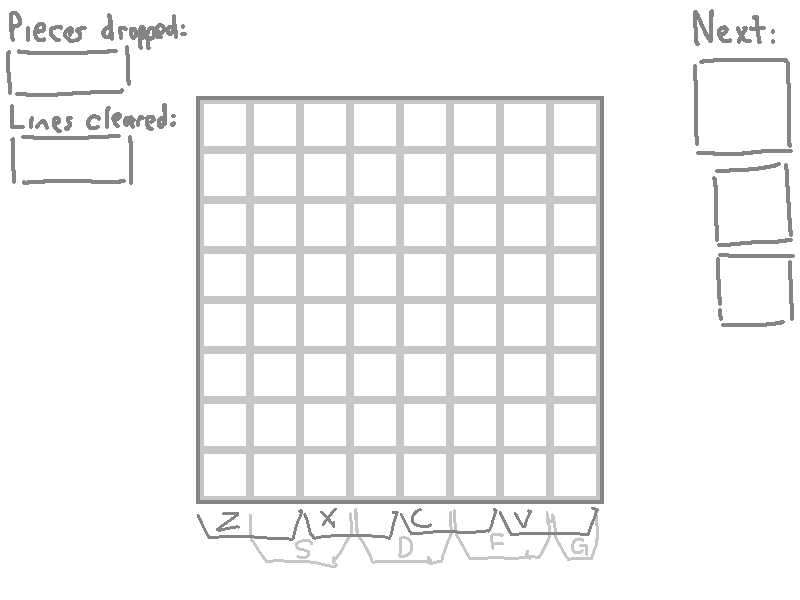
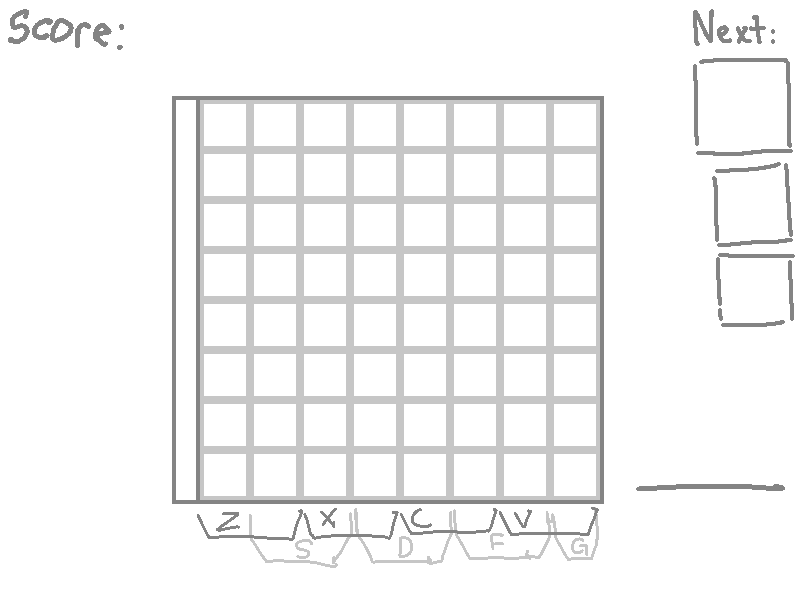
added a timer, and a three strikes to gameover function

Changed region(s): [[0.0, 0.0, 0.25, 0.84], [0.7812, 0.78, 1.0, 0.84], [0.0312, 0.3, 0.1562, 0.33]]

diff --git a/blockgame/main.cpp b/blockgame/main.cpp
@@ -4,7 +4,8 @@
 #include <algorithm>
 #include <random>
 #include"piece.h"
-
+#include<iomanip>
+#include<sstream>
 #include <iostream>
 using namespace std;
 
@@ -94,8 +95,11 @@ public:
 	int getHeight(int); //find heighest occupied square in V column 'int', by index for that square
 	int getPiecesDropped();
 	int getLinesCleared();
+	int getLevelValue(); // Level value determines what 'level' you're in and how much time you have to drop
 	piece lookPieceQ(int); //check what's the piece 'int' pieces after the current piece
 	bool getBoardState(int, int); //check if the square at int x, int y is full or not, used for drawing the gameboard
+	sf::Time getTimeLimit();
+	string getNextLevelValue();
 };
 
 gameBoard::gameBoard() {
@@ -124,6 +128,10 @@ int gameBoard::getPiecesDropped() {
 
 int gameBoard::getLinesCleared() {
 	return linesCleared;
+}
+
+int gameBoard::getLevelValue() {
+	return (piecesDropped + linesCleared);
 }
 
 piece gameBoard::lookPieceQ(int i) {
@@ -317,17 +325,41 @@ bool gameBoard::dropPiece(int dropZone) {
 	return dropSuccessful;
 }
 
+sf::Time gameBoard::getTimeLimit() {
+	int levelValue = getLevelValue();
+	if (levelValue < 50) return sf::seconds(10);
+	else if (levelValue < 100) return sf::seconds(9);
+	else if (levelValue < 200) return sf::seconds(8);
+	else if (levelValue < 300) return sf::seconds(7);
+	else if (levelValue < 400) return sf::seconds(6);
+	else if (levelValue < 500) return sf::seconds(5);
+	else if (levelValue < 999) return sf::seconds(3);
+	else return sf::seconds(1);
+}
+
+string gameBoard::getNextLevelValue() {
+	int levelValue = getLevelValue();
+	if (levelValue < 50) return "50";
+	else if (levelValue < 100) return "100";
+	else if (levelValue < 200) return "200";
+	else if (levelValue < 300) return "300";
+	else if (levelValue < 400) return "400";
+	else if (levelValue < 500) return "500";
+	else if (levelValue < 999) return "999";
+	else return "MAX";
+}
+
 string checkPiece(piece checkMe) {
 	switch (checkMe) {
-		case pieceDot: return ".";
-		case pieceI: return "I";
-		case pieceLine: return "_";
-		case pieceO: return "O";
-		case pieceR: return "r";
-		case piece7: return "7";
-		case pieceL: return "L";
-		case pieceJ: return "J";
-		default: return "";
+	case pieceDot: return ".";
+	case pieceI: return "I";
+	case pieceLine: return "_";
+	case pieceO: return "O";
+	case pieceR: return "r";
+	case piece7: return "7";
+	case pieceL: return "L";
+	case pieceJ: return "J";
+	default: return "";
 	}
 }
 
@@ -340,20 +372,30 @@ int main()
 	if (!font.loadFromFile("resources/sansation.ttf")) {
 		window.close();
 	}
-	sf::Text droppedPiecesText;
-	droppedPiecesText.setFont(font);
-	droppedPiecesText.setCharacterSize(40);
-	droppedPiecesText.setPosition(50, 50);
-	droppedPiecesText.setString("0");
-	droppedPiecesText.setFillColor(sf::Color::Black);
 
-	sf::Text linesClearedText;
-	linesClearedText.setFont(font);
-	linesClearedText.setCharacterSize(40);
-	linesClearedText.setPosition(50, 135);
-	linesClearedText.setString("1");
-	linesClearedText.setFillColor(sf::Color::Black);
+	// Stats
+	sf::Text scoreText;
+	scoreText.setFont(font);
+	scoreText.setCharacterSize(50);
+	scoreText.setPosition(50, 50);
+	scoreText.setString("0");
+	scoreText.setFillColor(sf::Color::Black);
 
+	sf::Text levelValueText;
+	levelValueText.setFont(font);
+	levelValueText.setCharacterSize(70);
+	levelValueText.setPosition(650, 400);
+	levelValueText.setString("1");
+	levelValueText.setFillColor(sf::Color::Black);
+
+	sf::Text nextLevelValueText;
+	nextLevelValueText.setFont(font);
+	nextLevelValueText.setCharacterSize(70);
+	nextLevelValueText.setPosition(650, 480);
+	nextLevelValueText.setString("666");
+	nextLevelValueText.setFillColor(sf::Color::Black);
+
+	// Next queue
 	sf::Text nextPiece1;
 	nextPiece1.setFont(font);
 	nextPiece1.setCharacterSize(100);
@@ -374,6 +416,35 @@ int main()
 	nextPiece3.setPosition(740, 250);
 	nextPiece3.setString("J");
 	nextPiece3.setFillColor(sf::Color::Black);
+
+	// Timers
+	sf::Text timeElapsedText;
+	timeElapsedText.setFont(font);
+	timeElapsedText.setCharacterSize(30);
+	timeElapsedText.setPosition(20, 560);
+	timeElapsedText.setString("temp");
+	timeElapsedText.setFillColor(sf::Color::Black);
+
+	sf::Text timeLeftText;
+	timeLeftText.setFont(font);
+	timeLeftText.setCharacterSize(60);
+	timeLeftText.setPosition(20, 490);
+	timeLeftText.setString("temp");
+	timeLeftText.setFillColor(sf::Color::Red);
+
+	// Strikes
+	int strikes = 0;
+	sf::Text strikesText;
+	strikesText.setFont(font);
+	strikesText.setCharacterSize(60);
+	strikesText.setPosition(20, 430);
+	strikesText.setString("");
+	strikesText.setFillColor(sf::Color::Red);
+
+	sf::Time timeElapsed = sf::seconds(0); // total time elapsed in the game
+	sf::Time timeLeft = sf::seconds(10); // time left before player gets a strike
+	sf::Time animationTimer = sf::seconds(0); // used to advance animation states, reset it and animate every .1s
+	sf::Clock clock;
 
 	sf::Texture backGround;
 	sf::Texture block;
@@ -403,6 +474,12 @@ int main()
 		}
 	}
 
+	static const int timerBarXPos = 176;
+	static const int timerBarYPos = 100;
+	sf::RectangleShape timerBar(sf::Vector2f(20.f, 400.f));
+	timerBar.setFillColor(sf::Color(0,0,0));
+	timerBar.setPosition(timerBarXPos, timerBarYPos);
+
 	bool isPlaying = true;
 	gameBoard game;
 	
@@ -420,27 +497,35 @@ int main()
 						switch (event.key.code) {
 							case sf::Keyboard::Z:
 								isPlaying = game.dropPiece(0);
+								timeLeft = game.getTimeLimit();
 								break;
 							case sf::Keyboard::S:
 								isPlaying = game.dropPiece(1);
+								timeLeft = game.getTimeLimit();
 								break;
 							case sf::Keyboard::X:
 								isPlaying = game.dropPiece(2);
+								timeLeft = game.getTimeLimit();
 								break;
 							case sf::Keyboard::D:
 								isPlaying = game.dropPiece(3);
+								timeLeft = game.getTimeLimit();
 								break;
 							case sf::Keyboard::C:
 								isPlaying = game.dropPiece(4);
+								timeLeft = game.getTimeLimit();
 								break;
 							case sf::Keyboard::F:
 								isPlaying = game.dropPiece(5);
+								timeLeft = game.getTimeLimit();
 								break;
 							case sf::Keyboard::V:
 								isPlaying = game.dropPiece(6);
+								timeLeft = game.getTimeLimit();
 								break;
 							case sf::Keyboard::G:
 								isPlaying = game.dropPiece(7);
+								timeLeft = game.getTimeLimit();
 								break;
 
 						}
@@ -450,22 +535,68 @@ int main()
 			}
 			window.clear();
 			window.draw(bgSprite);
-			droppedPiecesText.setString(to_string(game.getPiecesDropped()));
-			window.draw(droppedPiecesText);
-			linesClearedText.setString(to_string(game.getLinesCleared()));
-			window.draw(linesClearedText);
+
+			// get and draw stats
+			scoreText.setString(to_string(game.getPiecesDropped()));
+			window.draw(scoreText);
+			levelValueText.setString(to_string(game.getLevelValue()));
+			window.draw(levelValueText);
+			nextLevelValueText.setString(game.getNextLevelValue());
+			window.draw(nextLevelValueText);
+
+			// get and draw next pieces
 			nextPiece1.setString(checkPiece(game.lookPieceQ(0)));
 			window.draw(nextPiece1);
 			nextPiece2.setString(checkPiece(game.lookPieceQ(1)));
 			window.draw(nextPiece2);
 			nextPiece3.setString(checkPiece(game.lookPieceQ(2)));
 			window.draw(nextPiece3);
+
+			// get and draw timers
+			sf::Time delta = clock.restart();
+			timeElapsed += delta; // time elapsed
+			stringstream tempTime;
+			tempTime << fixed << setprecision(1) << timeElapsed.asSeconds();
+			timeElapsedText.setString(tempTime.str());
+			window.draw(timeElapsedText);
+			timeLeft -= delta; // time left
+			if (timeLeft.asSeconds() < 0) { // first check for strike
+				strikes++;
+				if (strikes > 3) {
+					isPlaying = false;
+				}
+				timeLeft = game.getTimeLimit();
+			}
+			tempTime.str(string());
+			tempTime << fixed << setprecision(1) << timeLeft.asSeconds();
+			timeLeftText.setString(tempTime.str());
+			window.draw(timeLeftText);
+
+			// get and draw strikes
+			if (strikes == 0)	strikesText.setString("");
+			else if (strikes == 1) strikesText.setString("X");
+			else if (strikes == 2) strikesText.setString("XX");
+			else strikesText.setString("XXX");
+			window.draw(strikesText);
+
+			// get and draw board
 			for (int x = 0; x < 8; x++) {
 				for (int y = 0; y < 8; y++) {
-					//cout << "boardBlock x=" + to_string(x) + " and y=" + to_string(y) + " status is: " + to_string(game.getBoardState(x, y)) << endl;
 					if (game.getBoardState(x,y)) window.draw(boardBlock[x][y]);
 				}
 			}
+
+			// get and draw timer bar
+			float percentTimeLeft = timeLeft.asSeconds() / game.getTimeLimit().asSeconds();
+			int percentTimerBarLength = static_cast<int>(400 * percentTimeLeft);
+			timerBar.setSize(sf::Vector2f(20.f, percentTimerBarLength));
+			timerBar.setPosition(timerBarXPos, (timerBarYPos + 400 - percentTimerBarLength));
+			timerBar.setFillColor(sf::Color(255 * (1 - percentTimeLeft), 0, 0));
+			window.draw(timerBar);
+
+			//TODO: CALCULATE AND ADD SCORE!!!!!!!!!
+
+			// display everything
 			window.display();
 		}
 		else {
@@ -476,6 +607,9 @@ int main()
 				if (otherEvent.type == sf::Event::Closed)
 					window.close();
 				if ((otherEvent.type == sf::Event::KeyPressed) && (otherEvent.key.code == sf::Keyboard::R)) {
+					strikes = 0;
+					timeElapsed = sf::seconds(0);
+					clock.restart();
 					isPlaying = true;
 				}
 			}
